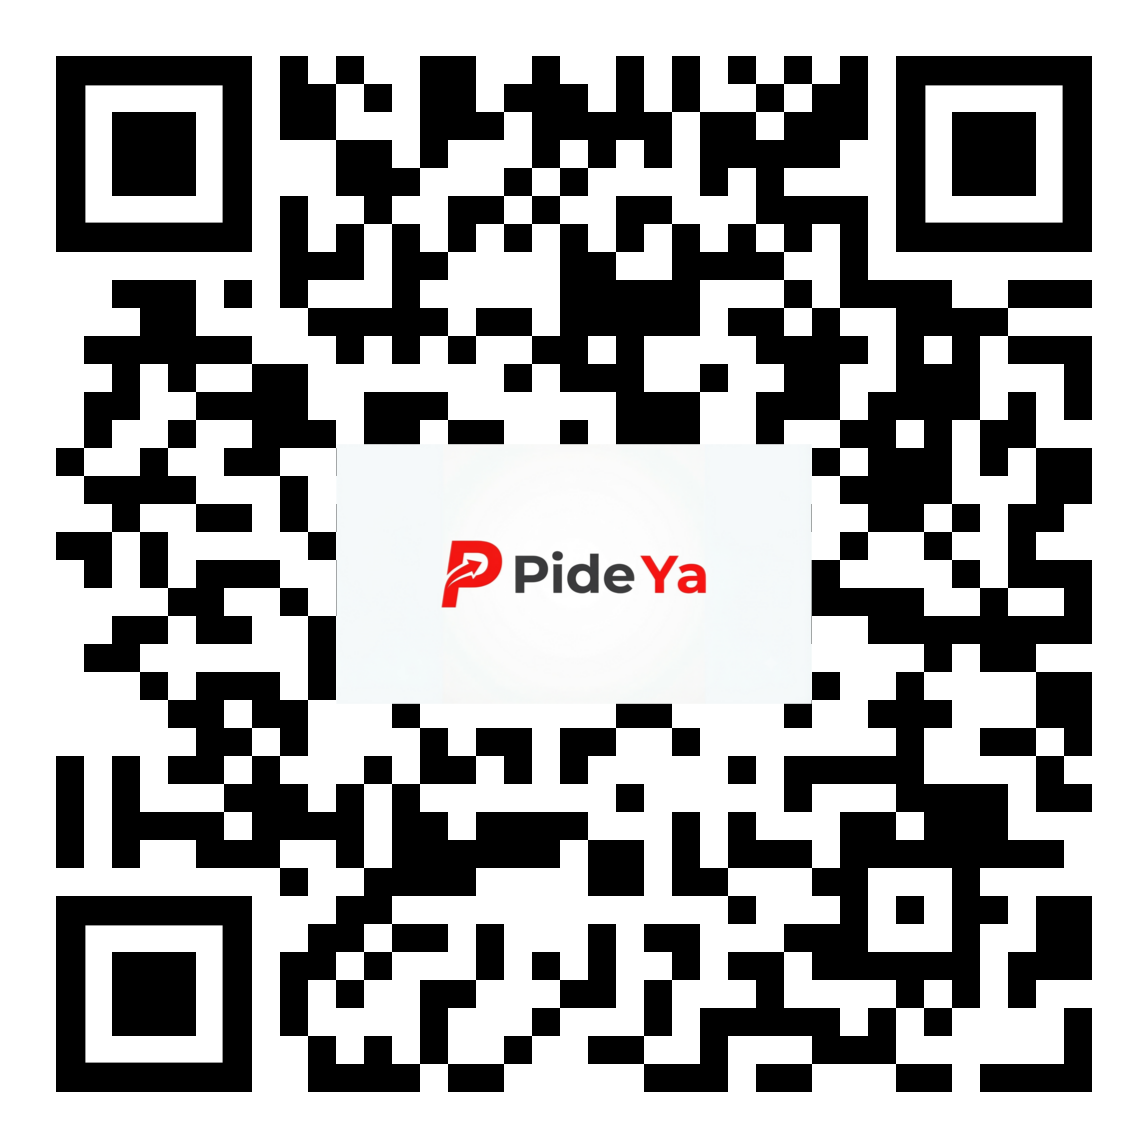
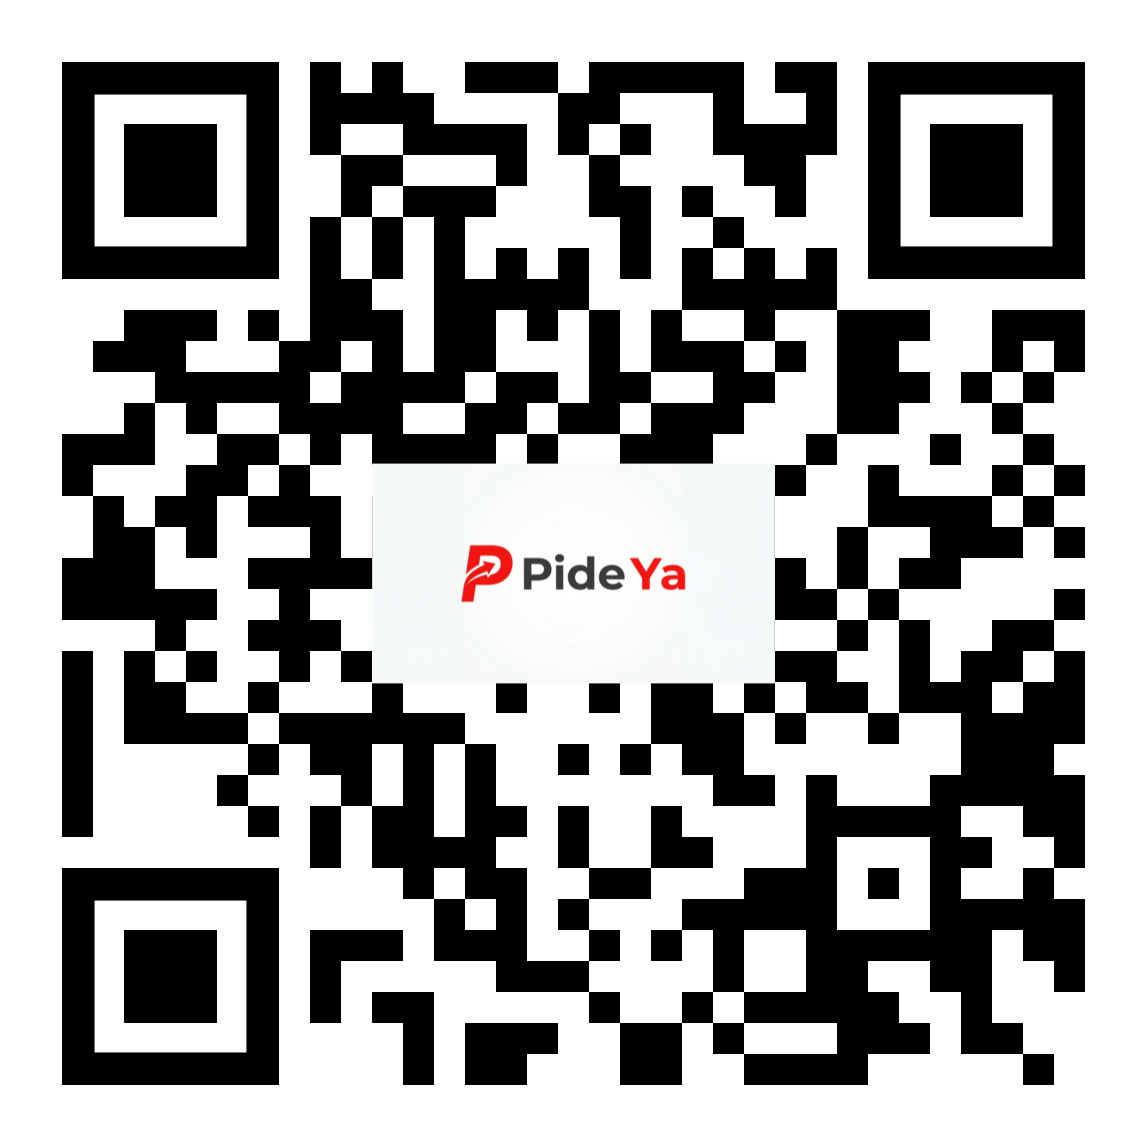
Add files via upload

diff --git a/index.html b/index.html
@@ -6,13 +6,13 @@
     
     <!-- Configuración Avanzada Open Graph (OG Share) - Conecta Card Oficial -->
     <meta property="og:type" content="website" />
-    <meta property="og:url" content="https://demo-belleza.pideya.contact/" />
+    <meta property="og:url" content="https://demo-manos.pideya.contact/" />
     <meta property="og:title" content="SALON MANOS BELLAS | PIDE YA" />
-    <meta property="og:description" content="Disfruta de la mejor experiencia y servicios exclusivos de belleza en SALON GENTE BELLA. Explora nuestros servicios y agenda tu cita con tu CONECTA CARD." />
+    <meta property="og:description" content="Disfruta de la mejor experiencia y servicios exclusivos de belleza para manos y uñas en SALON MANOS BELLAS. Explora nuestros servicios y agenda tu cita con tu CONECTA CARD." />
     
     <!-- Infraestructura Multimedia Premium de Imagen de Portada -->
-    <meta property="og:image" content="https://demo-belleza.pideya.contact/og_belleza.jpg" />
-    <meta property="og:image:secure_url" content="https://demo-belleza.pideya.contact/og_belleza.jpg" />
+    <meta property="og:image" content="https://demo-manos.pideya.contact/og_unas.jpg" />
+    <meta property="og:image:secure_url" content="https://demo-manos.pideya.contact/og_unas.jpg" />
     <meta property="og:image:type" content="image/jpeg" />
     <meta property="og:image:width" content="1080" />
     <meta property="og:image:height" content="1920" />
